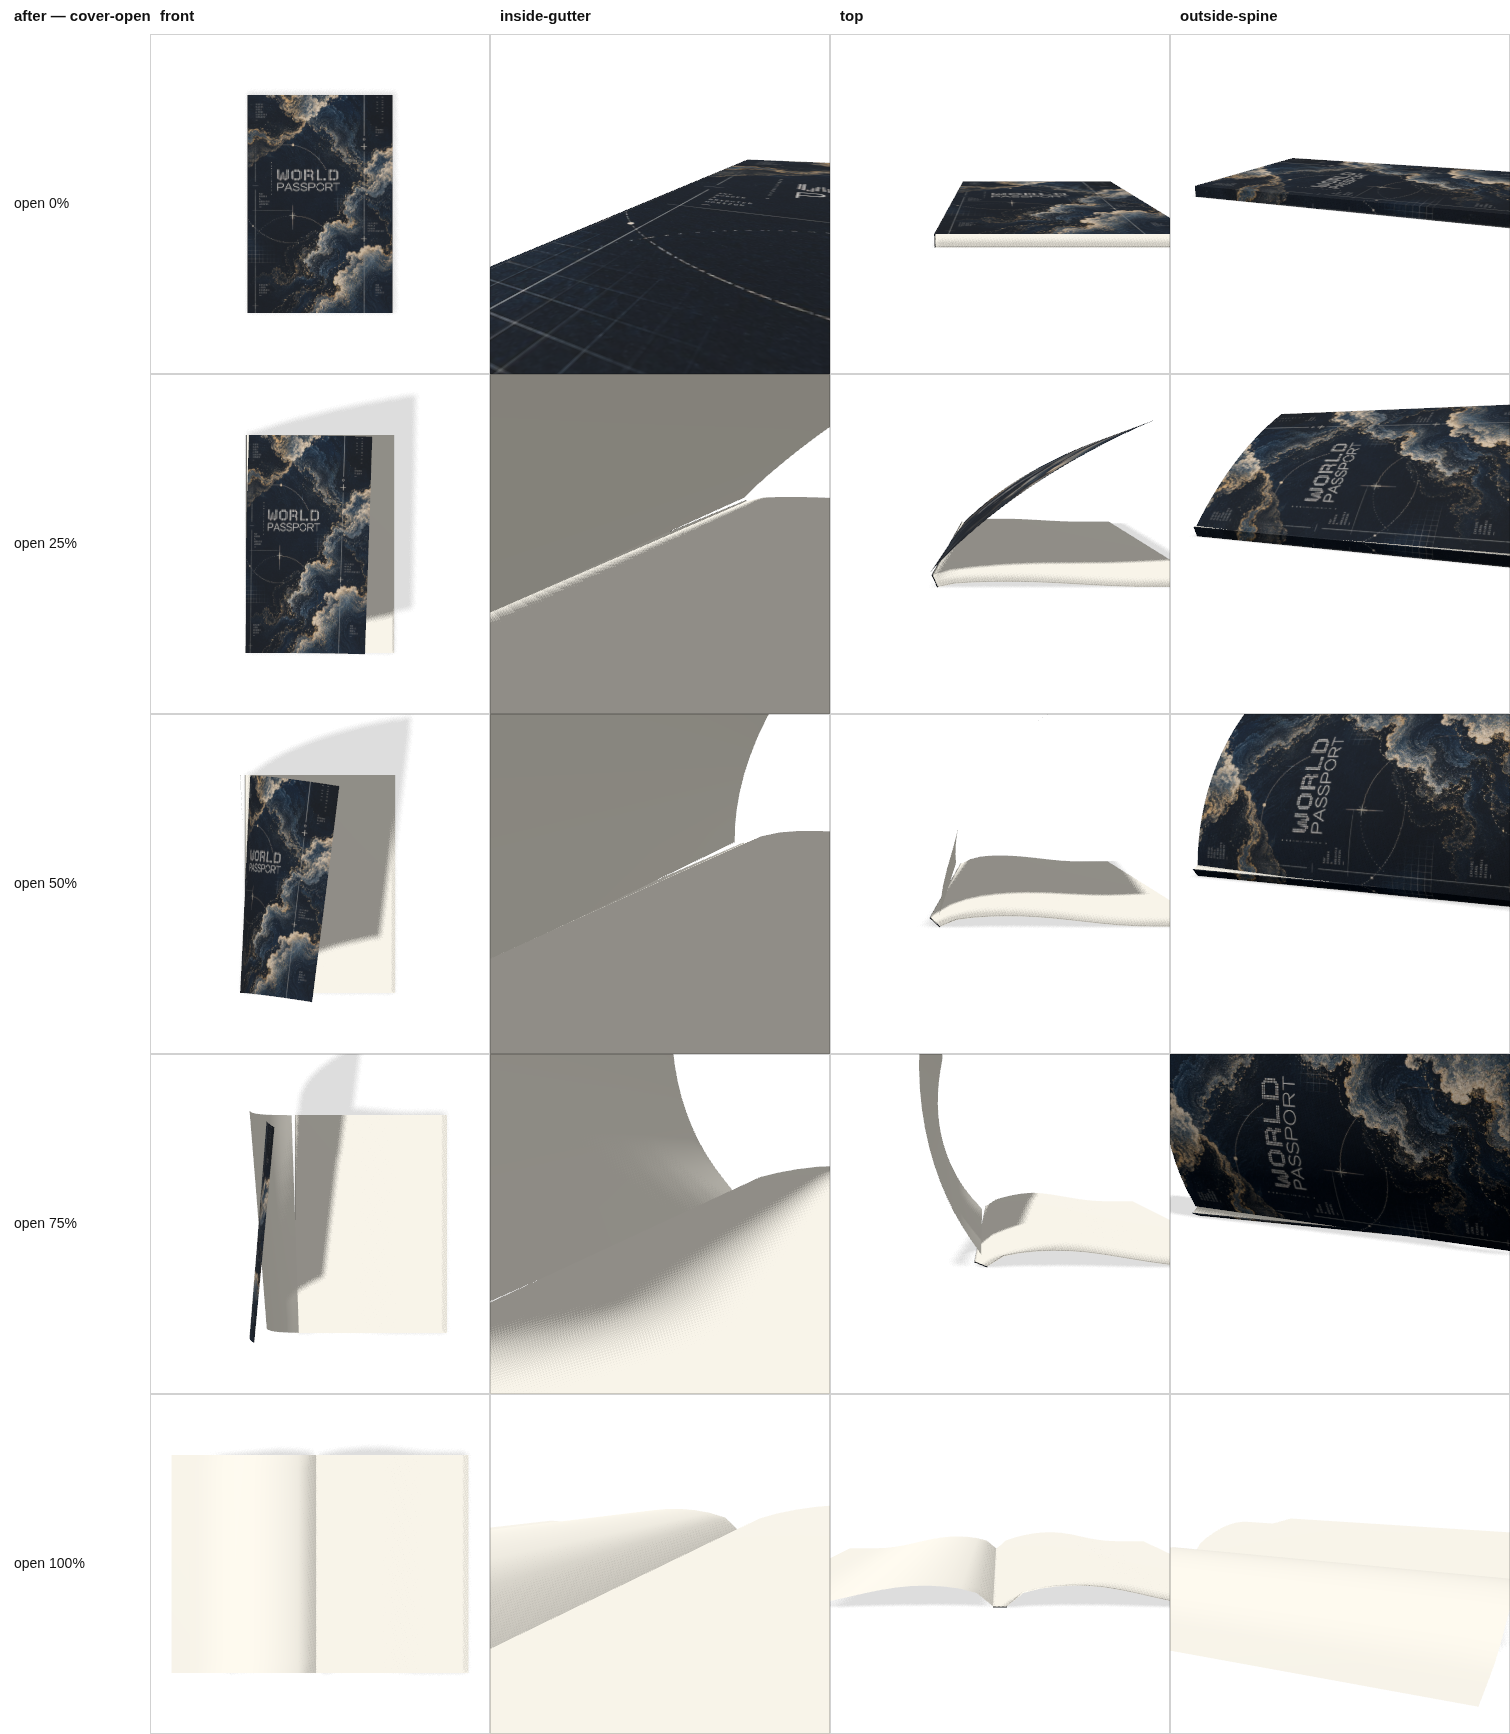
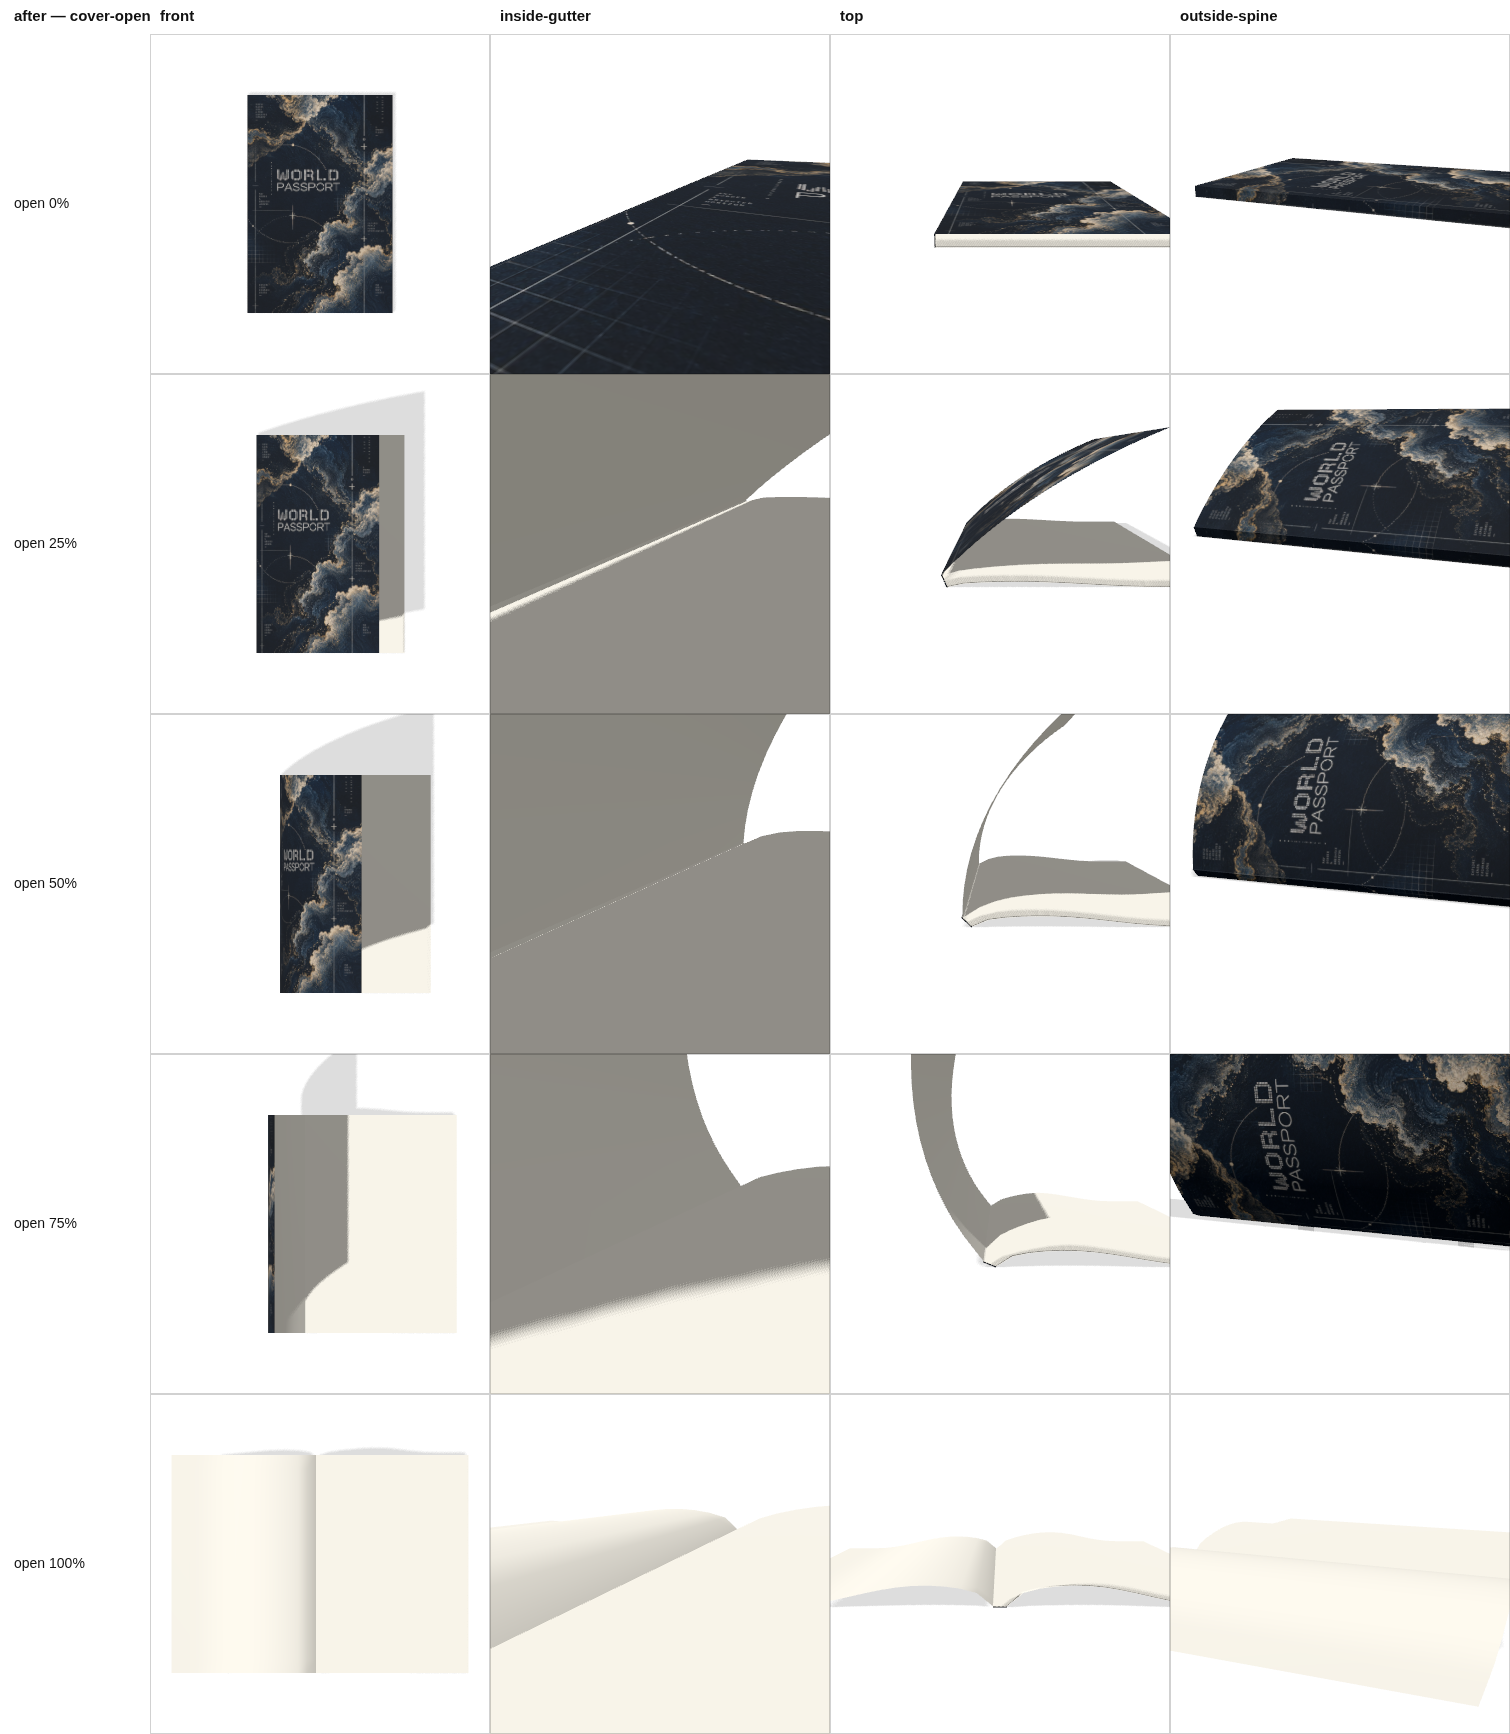
fix(binding): stop the case reading as two pieces during the opening
The cover looked like it was sliding off the block halfway through the open.
Two causes, both in what moves rather than in the spine, which is untouched.

- Recentring. centringOffset measured the case's extent live, and the front
  cover's reach folds back through the joint as it passes upright: the
  measured midpoint held almost still for the first half of the opening
  (-0.333 -> -0.320) and then bolted half a page sideways in the second
  (-0.320 -> +0.018), most of it between a=0.5 and a=0.7. On screen the block
  shot right while the cover swung left. Now eased between the two measured
  ends with a smoothstep: identical at a=0 and a=1, monotonic in between
  (steps of 0.010 .. 0.052 .. 0.010, no lurch).
- Twist. Quick FlipBook's third leaf modifier lifts one end of a sheet and
  drops the other. On a leaf you never notice; on a cover it put the head and
  tail out of register with the block's, which is the shear in the frames
  Boss flagged. Dropped, along with the now-dead Twist in the stack.

Also: the key light's shadow camera was +/-3 for a 1.4-unit book, ~6mm per
texel, which returned the open cover's shadow as a blocky wedge. Fitted to
+/-1.2. Same light, position, intensity and softness — resolution only.

Invariants against the live scene: 8 of 9 clean at every sample. #6 (spine
hidden from inside) has 5 of 45 grazing rays reaching the board's front joint
edge at openAmount 0.4 — the joint groove, carrying the case's own covering
[…]

diff --git a/src/binding.js b/src/binding.js
@@ -63,8 +63,8 @@ const SOFT_COVER_SUBDIVISIONS = 16; // same as the leaves (PAGE_SUBDIVISIONS)
 // ---------------------------------------------------------------------------
 // COVER STIFFNESS — the one place to change it.
 //
-// "soft"  limp covers: a single flexible sheet that bends, twists and curls
-//         exactly as a leaf does, the way a passport's card cover behaves.
+// "soft"  limp covers: a single flexible sheet that bends and curls the way
+//         a leaf does, as a passport's card cover behaves.
 // "rigid" boards: flat panels with real calliper, a hardcover case.
 //
 // Set per edition with `coverStyle` in src/books.js. Nothing else needs to
@@ -111,20 +111,24 @@ class PaperCurl extends MODIFIERS.UserDefined {
  *
  * Curl alone is not paper: it vanishes at the half turn, because a sheet
  * standing on edge has no height to give. What keeps a leaf limp there is the
- * bend — it peaks at exactly the point the curl disappears — and the twist
- * that stops the free corner from staying square. A cover built out of only
- * the curl is a board pretending to be paper: dead flat at ninety degrees.
+ * bend, which peaks at exactly the point the curl disappears. A cover built
+ * out of only the curl is a board pretending to be paper: dead flat at ninety
+ * degrees.
+ *
+ * Quick FlipBook's third ingredient, the twist, is deliberately left out. On a
+ * leaf it is a flourish you never look at directly; on a cover it lifts one
+ * end and drops the other, so the cover's head and tail stop lining up with
+ * the block's and the case reads as two pieces sliding past each other.
  */
 function leafDeformation(turnProgress, strength, direction = 1) {
   const angle = Math.PI * turnProgress;
   return {
     curl: (-1 + 2 * turnProgress) * (-Math.sin(angle) + 1) * strength,
     bend: Math.min(-Math.sin(angle) / 2, -1e-4) * direction * strength,
-    twist: (Math.sin(angle) / 10) * strength,
   };
 }
 
-/** Just the curl, for the leaves — the engine applies their bend and twist. */
+/** Just the curl, for the leaves — the engine applies their own bend and twist. */
 function curlIntensity(turnProgress, strength) {
   return leafDeformation(turnProgress, strength).curl;
 }
@@ -549,14 +553,10 @@ export class CaseBinding extends THREE.Group {
       const curl = new PaperCurl();
       const bend = new MODIFIERS.Bend(0, 0, 0);
       bend.constraint = MODIFIERS.ModConstant.LEFT;
-      const twist = new MODIFIERS.Twist(0);
-      twist.vector = new MODIFIERS.Vector3(2, 0, 0);
-      twist.center = new MODIFIERS.Vector3(-0.5, 0, 0);
       const stack = new MODIFIERS.ModifierStack(mesh);
       // Same order Quick FlipBook stacks them in on a leaf.
       stack.addModifier(curl);
       stack.addModifier(bend);
-      stack.addModifier(twist);
       // Which way this skin's normal points at rest. A cover's two skins face
       // opposite ways, so they take opposite forces to move together, and a
       // leaf's own normal points the other way again — which is why the leaf
@@ -565,7 +565,6 @@ export class CaseBinding extends THREE.Group {
         mesh,
         curl,
         bend,
-        twist,
         stack,
         outward,
         normalSign: outward * facing,
@@ -666,7 +665,6 @@ export class CaseBinding extends THREE.Group {
       const sign = -entry.normalSign;
       entry.curl.intensity = sign * paper.curl;
       entry.bend.force = sign * paper.bend;
-      entry.twist.angle = sign * paper.twist;
       entry.stack.apply();
       entry.mesh.geometry.computeVertexNormals();
     }
@@ -704,7 +702,7 @@ export class CaseBinding extends THREE.Group {
       this.#refreshSoftCovers(pose);
     }
 
-    this.#frame.position.x = centringOffset(dimensions, pose.spineAngle, pose.coverAngle);
+    this.#frame.position.x = centringOffset(dimensions, pose.openAmount);
   }
 
   get progress() { return this.#progress; }

diff --git a/src/binding-geometry.js b/src/binding-geometry.js
@@ -240,9 +240,26 @@ export function caseExtent(dimensions, spineAngle, coverAngle) {
   return { min: Math.min(...xs), max: Math.max(...xs) };
 }
 
-export function centringOffset(dimensions, spineAngle, coverAngle) {
-  const extent = caseExtent(dimensions, spineAngle, coverAngle);
-  return -(extent.min + extent.max) / 2;
+/**
+ * How far to slide the whole composition so it stays in frame: from the closed
+ * case centred on itself to the open spread centred on its gutter.
+ *
+ * Eased between those two ends rather than measured live. Measuring the case's
+ * extent every frame sounds more principled and is worse to watch: the front
+ * cover's reach folds back through the joint as it passes upright, so the
+ * measured midpoint barely moves for the first half of the opening and then
+ * lurches half a page sideways in the second. On screen the text block sits
+ * still, then bolts to the right while the cover swings left, and the two read
+ * as coming apart rather than as one book opening. Both ends still land
+ * exactly where the measured rule put them.
+ */
+export function centringOffset(dimensions, openAmount) {
+  const closed = caseExtent(dimensions, 0, 0);
+  const open = caseExtent(dimensions, Math.PI / 2, Math.PI);
+  const from = -(closed.min + closed.max) / 2;
+  const to = -(open.min + open.max) / 2;
+  const t = clamp(openAmount, 0, 1);
+  return from + (to - from) * (t * t * (3 - 2 * t));
 }
 
 /**

diff --git a/src/main.js b/src/main.js
@@ -69,10 +69,14 @@ keyLight.castShadow = true;
 keyLight.shadow.mapSize.set(SHADOW_MAP_SIZE, SHADOW_MAP_SIZE);
 keyLight.shadow.camera.near = 0.1;
 keyLight.shadow.camera.far = 14;
-keyLight.shadow.camera.left = -3;
-keyLight.shadow.camera.right = 3;
-keyLight.shadow.camera.top = 3;
-keyLight.shadow.camera.bottom = -3;
+// Fitted to the book plus the reach of an open cover, not to the whole table.
+// A +/-3 frustum spent 1024 texels on 6 units — about 6mm per texel, coarse
+// enough that the cover's shadow came back as a blocky wedge with a stepped
+// edge. Same light, same softness, four times the resolution where it lands.
+keyLight.shadow.camera.left = -1.2;
+keyLight.shadow.camera.right = 1.2;
+keyLight.shadow.camera.top = 1.2;
+keyLight.shadow.camera.bottom = -1.2;
 keyLight.shadow.bias = -0.00025;
 keyLight.shadow.normalBias = 0.012;
 keyLight.shadow.radius = 3;
